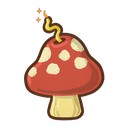
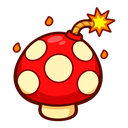
R803：codex 重出三张图 —— 连斩 9272 / 炮火就位 9273 卡图 + 爆炸蘑菇 7016 图标重做
- 9272 连斩：两把交错短弯刀 + 4~5 道紫青斩击残影，暗紫虚空底（对齐 9111 暗影之刃的紫调）。
- 9273 炮火就位：四根黄铜/暗钢炮管锁入射击位，炮口橙红充能、齿轮铜阀、火星硝烟（对齐「火」卡色）。
- 7016 爆炸蘑菇：红伞盖 + 奶油斑点 + 弯引信火花，粗褐描边平涂，44px 可辨认。
  覆盖 R801 那版（那版伞盖偏小、引信贴边）。
- 三张都是 codex exec 内置 imagegen 纯文生图（1254² → 后处理），一张图一次会话，
  「新出现的 png」与目标文件名一一对应，不靠顺序猜。
- 后处理：蘑菇走 4-连通泛洪取背景（不按亮度抠白，否则伞盖亮部会被算成半透明），
  RGB/Alpha 分开降采样 → 128×128 透明；卡图按 448/404 居中裁 → 448×404
  （跟现网 326 张定稿一致，cardart_prep 里的 403 是旧值）。
- 三张都按现网口径：不要人物、不要文字/水印/边框。
- ⚠ 轮次让号：R802 已被「事件背景重出」那条线占走（120695b），本轮记为 R803。

diff --git a/tools/_make_r803_icon.py b/tools/_make_r803_icon.py
@@ -1,0 +1,118 @@
+# -*- coding: utf-8 -*-
+"""R803：爆炸蘑菇 7016 图标后处理（codex 出图 → 透明 128×128）。
+
+背景处理照抄 R755 的做法（`tools/_make_r755_icons.py`）：
+不走「按亮度抠白」，而是从四边做 4-连通泛洪取背景 —— 后端可能把 transparent
+画成棋盘格，按亮度算会把蘑菇自身的亮部也算成半透明。
+
+这里把 `_bg_mask` / `cut` 复制过来而不是 import：`_make_r755_icons.py` 在 import 时
+就会执行它自己的 cut()，会顺手重写 7012 石头和交换图标那两张图（R755/R797/R801 都踩过）。
+
+用法：python tools/_make_r803_icon.py
+"""
+import os
+
+from PIL import Image, ImageChops, ImageEnhance, ImageFilter
+
+ROOT = "E:/work/card_rogue/"
+SENTINEL = (255, 0, 255)
+SENTINEL_SET = {SENTINEL}
+
+
+def _bg_mask(im, bright=200, satmax=45):
+    """从四边向内做 4-连通泛洪，返回「背景」掩膜（255 = 背景）。"""
+    w, h = im.size
+    px = im.load()
+    ok = bytearray(w * h)
+    for y in range(h):
+        base = y * w
+        for x in range(w):
+            r, g, b = px[x, y]
+            if min(r, g, b) >= bright and max(r, g, b) - min(r, g, b) <= satmax:
+                ok[base + x] = 1
+    seen = bytearray(w * h)
+    stack = []
+    for x in range(w):
+        for y in (0, h - 1):
+            if ok[y * w + x]:
+                stack.append(y * w + x)
+    for y in range(h):
+        for x in (0, w - 1):
+            if ok[y * w + x]:
+                stack.append(y * w + x)
+    while stack:
+        i = stack.pop()
+        if seen[i]:
+            continue
+        seen[i] = 1
+        x = i % w
+        if x > 0 and ok[i - 1] and not seen[i - 1]:
+            stack.append(i - 1)
+        if x < w - 1 and ok[i + 1] and not seen[i + 1]:
+            stack.append(i + 1)
+        if i >= w and ok[i - w] and not seen[i - w]:
+            stack.append(i - w)
+        if i + w < w * h and ok[i + w] and not seen[i + w]:
+            stack.append(i + w)
+    return Image.frombytes("L", (w, h), bytes(255 if v else 0 for v in seen))
+
+
+def cut(src, out, pad_pct=0.06, bright=1.0, sat=1.0, work=512, **bg_kw):
+    im = Image.open(src).convert("RGB")
+    w, h = im.size
+    bg = _bg_mask(im, **bg_kw)
+    fg = ImageChops.invert(bg)
+    # 收 2px：描边外侧抗锯齿像素「亮且不饱和」会被当前景 → 圆图标带一圈虚线亮边
+    for _ in range(2):
+        fg = fg.filter(ImageFilter.MinFilter(3))
+    darks = sorted([c for c in im.getdata() if c not in SENTINEL_SET and sum(c) < 210],
+                   key=lambda c: sum(c))
+    edge = darks[max(0, len(darks) // 20)] if darks else (30, 30, 36)
+    rgb = Image.composite(im, Image.new("RGB", (w, h), edge), fg)
+    alpha = fg.resize((work, work), Image.LANCZOS)
+    rgb = rgb.resize((work, work), Image.LANCZOS)
+    bb = alpha.point(lambda v: 255 if v >= 8 else 0).getbbox()
+    side = max(bb[2] - bb[0], bb[3] - bb[1])
+    side = int(side * (1.0 + pad_pct * 2))
+    cx = (bb[0] + bb[2]) // 2
+    cy = (bb[1] + bb[3]) // 2
+    box = (cx - side // 2, cy - side // 2, cx + side // 2, cy + side // 2)
+    rgb = rgb.crop(box).resize((128, 128), Image.LANCZOS)
+    alpha = alpha.crop(box).resize((128, 128), Image.LANCZOS)
+    if bright != 1.0:
+        rgb = ImageEnhance.Brightness(rgb).enhance(bright)
+    if sat != 1.0:
+        rgb = ImageEnhance.Color(rgb).enhance(sat)
+    out_im = rgb.convert("RGBA")
+    out_im.putalpha(alpha)
+    out_im.save(ROOT + out)
+    print("wrote", out, out_im.size)
+    return out_im
+
+
+def preview(paths, out, bg=(26, 26, 32, 255), scale=3):
+    ims = [Image.open(ROOT + p).convert("RGBA") for p in paths]
+    w = 128 * len(ims) + 20 * (len(ims) + 1)
+    canvas = Image.new("RGBA", (w, 168), bg)
+    for i, im in enumerate(ims):
+        canvas.paste(im, (20 + i * 148, 20), im)
+    canvas.resize((canvas.width * scale, canvas.height * scale), Image.LANCZOS).save(ROOT + out)
+    print("preview", out)
+
+
+RAW = "art_src/2026-11-18_连斩炮火就位与蘑菇_R803/raw/mushroom_7016.png"
+
+cut(RAW, "assets/ui/trap_icon_7016.png", bright=1.06, sat=1.05)
+
+# 44px 实机尺寸对照（工具栏 CELL = 44）
+peers = ["assets/ui/trap_icon_7001.png", "assets/ui/trap_icon_7002.png",
+         "assets/ui/trap_icon_7004.png", "assets/ui/trap_icon_7015.png",
+         "assets/ui/trap_icon_7016.png"]
+for name, px in (("_preview_44px.png", 44), ("_preview_88px.png", 88)):
+    ims = [Image.open(ROOT + p).convert("RGBA").resize((px, px), Image.LANCZOS) for p in peers]
+    w = px * len(ims) + 12 * (len(ims) + 1)
+    c = Image.new("RGBA", (w, px + 24), (44, 38, 32, 255))
+    for i, im in enumerate(ims):
+        c.paste(im, (12 + i * (px + 12), 12), im)
+    c.save(ROOT + "art_src/2026-11-18_连斩炮火就位与蘑菇_R803/processed/" + name)
+    print("preview", name, c.size)

diff --git a/tools/_make_r803_cardart.py b/tools/_make_r803_cardart.py
@@ -1,0 +1,49 @@
+# -*- coding: utf-8 -*-
+"""R803：codex 出的两张卡图 → 项目规格 448×404（居中等比裁切）。
+
+规格来源：assets/pics 里 326 张定稿图全是 448×404（`tools/cardart_prep.py` 的 TARGET
+写的是 403，是旧值；这里跟现网多数保持一致）。
+
+裁法：按 448/404 的宽高比、以图片高度为准算裁窗宽度；若原图不够宽则改为按宽度算高度。
+两边都居中，不做非等比拉伸。
+
+用法：python tools/_make_r803_cardart.py
+"""
+import os
+
+from PIL import Image
+
+ROOT = "E:/work/card_rogue/"
+RAW = ROOT + "art_src/2026-11-18_连斩炮火就位与蘑菇_R803/raw/"
+TARGET = (448, 404)
+RATIO = TARGET[0] / float(TARGET[1])
+
+JOBS = [("card_9272.png", "9272"), ("card_9273.png", "9273")]
+
+
+def prep(src, dst):
+    im = Image.open(src).convert("RGB")
+    w, h = im.size
+    tw = int(round(h * RATIO))
+    if tw <= w:
+        left = (w - tw) // 2
+        box = (left, 0, left + tw, h)
+    else:
+        th = int(round(w / RATIO))
+        top = (h - th) // 2
+        box = (0, top, w, top + th)
+    im.crop(box).resize(TARGET, Image.LANCZOS).save(dst)
+    print("  %-16s %s  %s -> %s" % (os.path.basename(src), box, im.size, TARGET))
+
+
+for src, cid in JOBS:
+    p = RAW + src
+    if not os.path.exists(p):
+        print("跳过（raw 缺图）：", src)
+        continue
+    prep(p, ROOT + "assets/pics/%s.png" % cid)
+    # 归档一份成品，和 raw 放一起便于复查
+    out = ROOT + "art_src/2026-11-18_连斩炮火就位与蘑菇_R803/processed/%s.png" % cid
+    os.makedirs(os.path.dirname(out), exist_ok=True)
+    Image.open(ROOT + "assets/pics/%s.png" % cid).save(out)
+print("done")

diff --git a/art_src/2026-11-18_连斩炮火就位与蘑菇_R803/README.md b/art_src/2026-11-18_连斩炮火就位与蘑菇_R803/README.md
@@ -1,0 +1,34 @@
+# R803 · 连斩 / 炮火就位 卡图 + 爆炸蘑菇图标重做（codex 出图）
+
+出图方式：`codex exec`（gpt-6-astra，内置 imagegen，纯文生图 1254×1254）。
+一张图一次会话 —— 这样「新出现的 png」与目标文件名一一对应，不靠顺序猜。
+调用脚本 `E:/tmp/_run_r803_codex.py`（一次性）；提示词见 `prompts/`。
+
+## 三张图
+
+| 文件 | 用途 | 最终落点 | 规格 |
+|---|---|---|---|
+| `raw/mushroom_7016.png` | 爆炸蘑菇 7016 图标（重做） | `assets/ui/trap_icon_7016.png` | 128×128 RGBA 透明 |
+| `raw/card_9272.png` | 卡图「连斩」9272 | `assets/pics/9272.png` | 448×404 RGB |
+| `raw/card_9273.png` | 卡图「炮火就位」9273 | `assets/pics/9273.png` | 448×404 RGB |
+
+## 后处理
+
+- 蘑菇：`tools/_make_r803_icon.py` —— 从四边做 4-连通泛洪取背景（不用亮度抠白，
+  否则伞盖亮部会被算成半透明），RGB/Alpha 分开降采样，居中留 6% 边距缩到 128。
+  顺带出 44/88px 实机对照图在 `processed/`。
+- 卡图：`tools/_make_r803_cardart.py` —— 按 448/404 居中裁（1254 方图上下各切 61px），
+  LANCZOS 缩到 448×404。**规格跟现网 326 张定稿一致**（`tools/cardart_prep.py` 里的
+  TARGET=448×403 是旧值，别照那个）。
+
+## 画风说明
+
+三张都按现有卡池口径出：不要人物、不要文字/水印/边框。
+- 「连斩」＝ 两把交错短弯刀 + 4~5 道紫青斩击残影，暗紫虚空底（对齐 9111 暗影之刃的紫调）。
+- 「炮火就位」＝ 四根黄铜/暗钢炮管锁入射击位，炮口橙红充能，火星与硝烟（对齐「火」卡色）。
+- 「爆炸蘑菇」＝ 红伞盖 + 奶油斑点 + 弯引信火花，粗褐描边平涂，44px 可辨认。
+
+## 验收
+
+- 蘑菇 alpha 四角为 0（真透明），bbox (12,7)-(116,122)。
+- 卡图裁切后主体完整、无关键部件被切（拼 448 总览逐格看过）。
